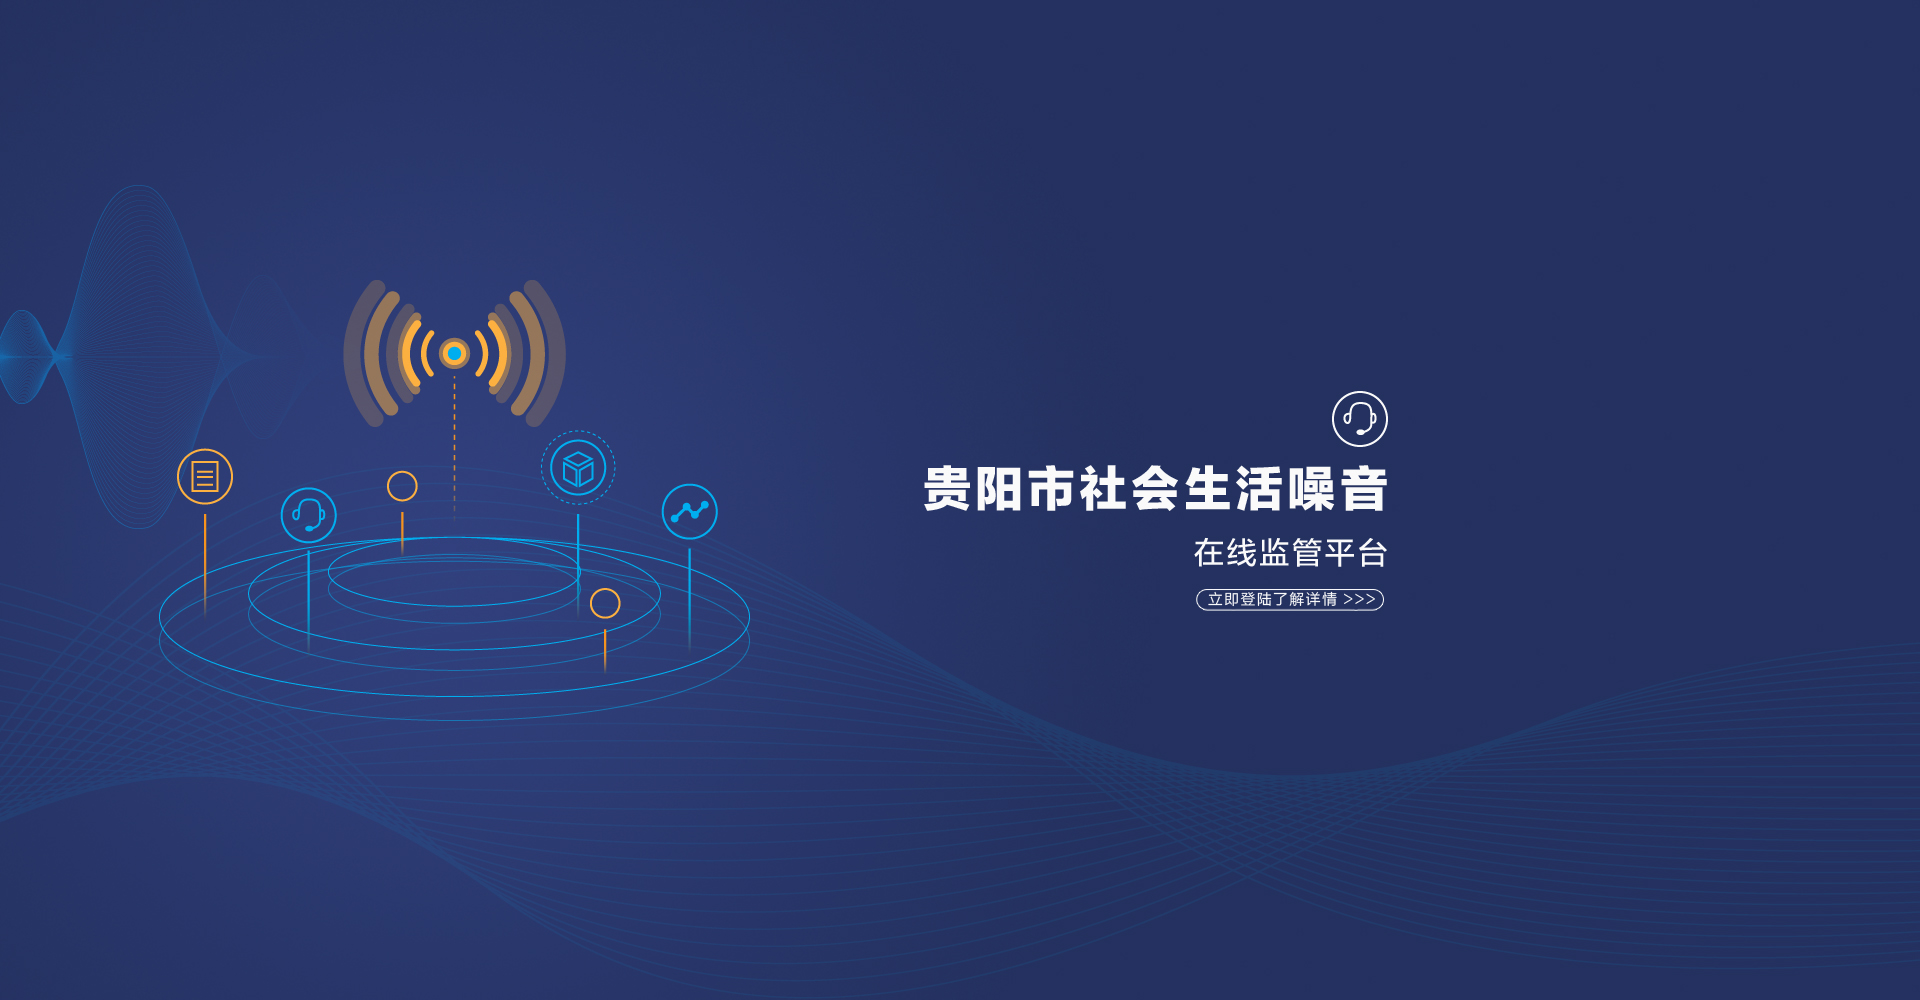
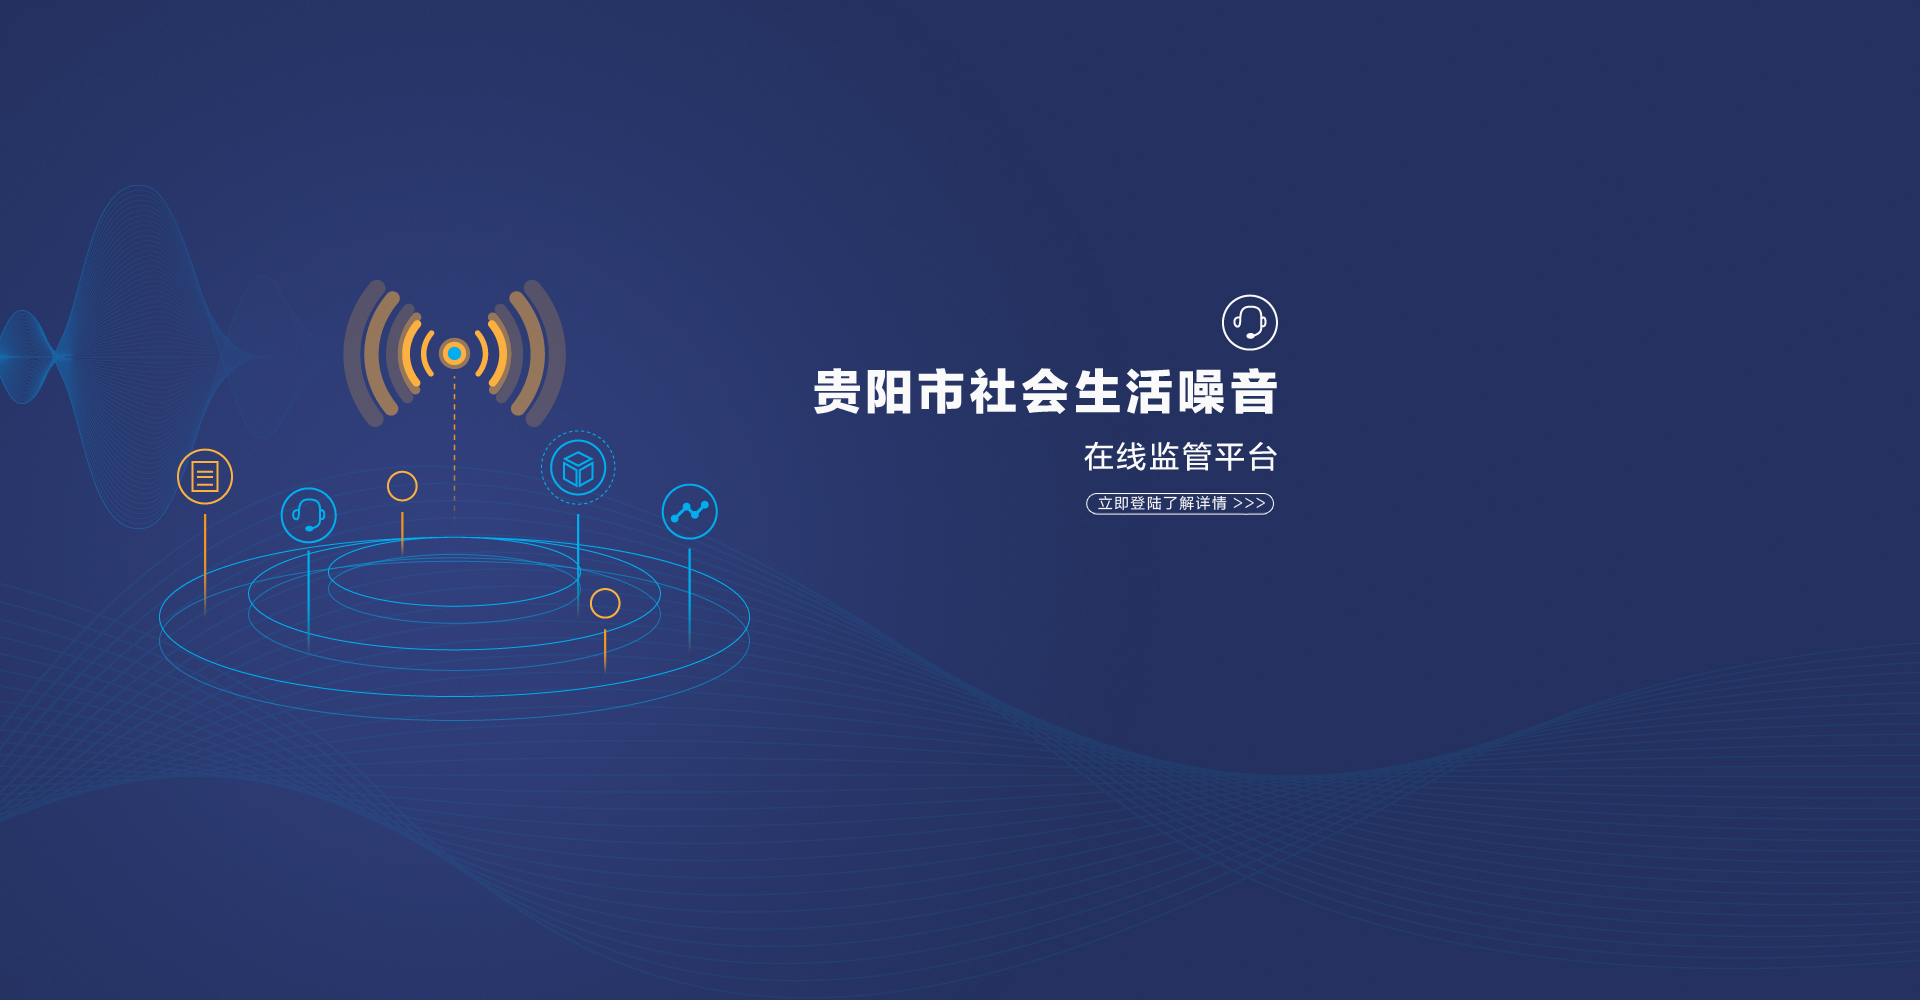
首页样式更改

Changed region(s): [[0.4062, 0.31, 0.7188, 0.62], [0.6875, 0.403, 0.7188, 0.434]]

diff --git a/huanbao_frontend/src/main/resources/static/css/login.css b/huanbao_frontend/src/main/resources/static/css/login.css
@@ -53,7 +53,7 @@
 .loginBox{
   height:370px;
   width:350px;
-  right:14%;
+  right:20%;
   top:50%;
   margin:-185px -175px 0 0;
   filter:progid:DXImageTransform.Microsoft.gradient(startColorstr=#0e000000, endColorstr=#0e000000);
